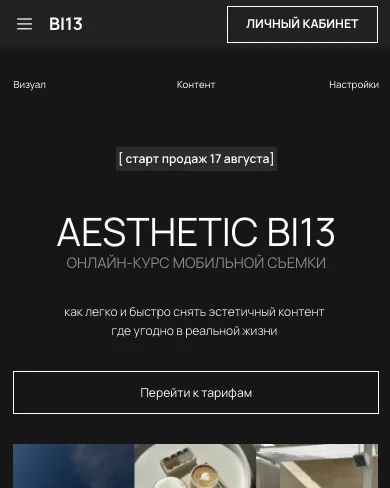
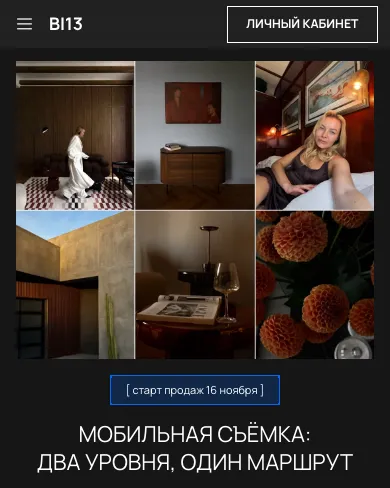
BI13: ссылка и превью страницы aesthetic-high-level

diff --git a/assets/schema.js b/assets/schema.js
@@ -34,7 +34,7 @@
     { row: 1, title: 'Kochfit', tags: ['Фитнес', 'Образование'], text: 'Фитнес-школа женского здоровья', img: W + 'kochfit.webp', href: 'https://kochfit.ru/' },
     { row: 1, title: 'Popovichfit', tags: ['Фитнес', 'Образование'], text: 'Онлайн-фитнес-клуб', img: W + 'popovichfit.webp', href: 'https://popovichfit.ru/' },
     { row: 1, title: 'Kinezio Fitness', tags: ['Фитнес', 'Образование'], text: 'Бесплатный модуль курса', img: W + 'kinezio.webp', href: 'https://kineziofitness.online/module-zero' },
-    { row: 1, title: 'BI13', tags: ['Фотография', 'Образование'], text: 'Онлайн-школа мобильной фотографии', img: W + 'bi13.webp', href: 'https://bi13pro.ru/aestheticbi13' },
+    { row: 1, title: 'BI13', tags: ['Фотография', 'Образование'], text: 'Онлайн-школа мобильной фотографии', img: W + 'bi13.webp', href: 'https://bi13pro.ru/aesthetic-high-level' },
     { row: 1, title: 'Savinar', tags: ['Образование', 'SMM'], text: 'Лендинг курса по продвижению', img: W + 'savinar.webp', href: 'https://savinarv.tilda.ws/' },
     { row: 1, title: 'Nasha', tags: ['Магазин'], text: 'Интернет-магазин одежды', img: W + 'nasha.webp', href: 'https://nashashop.ru/catalog' },
     { row: 1, title: 'HR-витрина', tags: ['Вакансии'], text: 'Найм менеджеров продаж', img: W + 'hr.webp', href: 'https://sales-manager-chat.tilda.ws/' },
